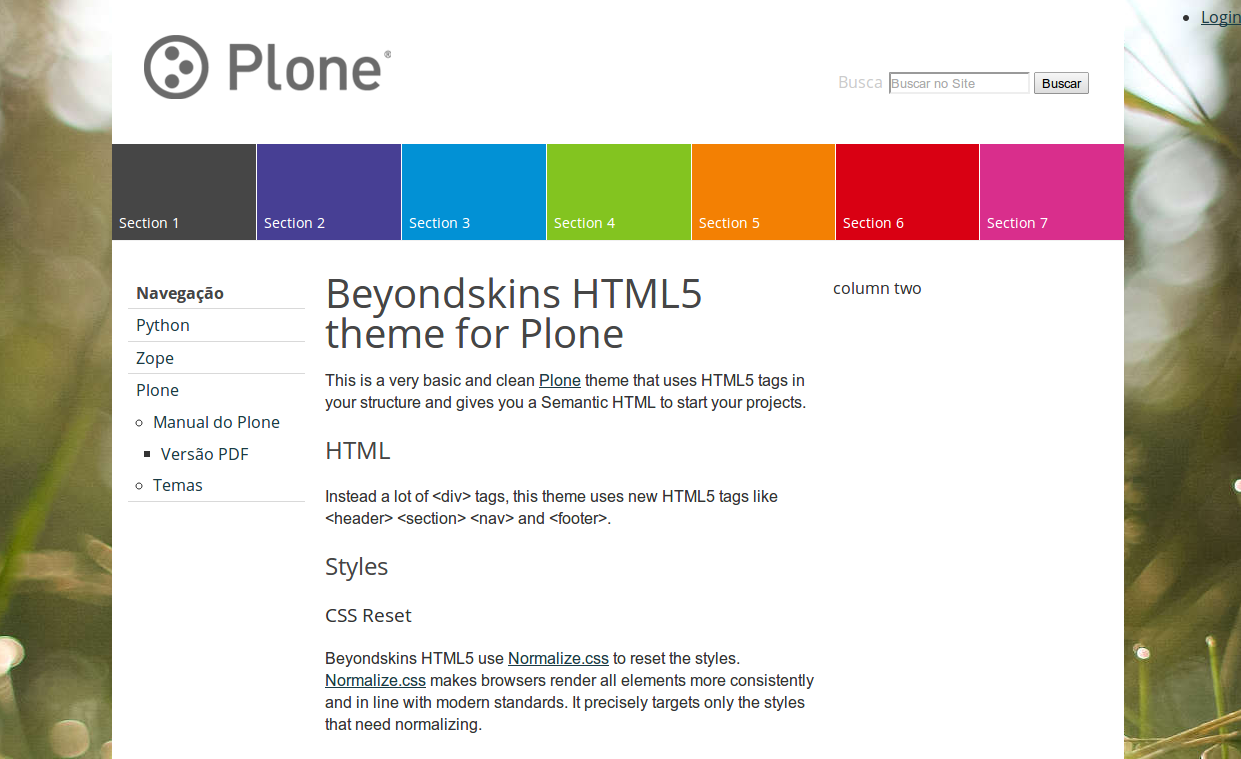
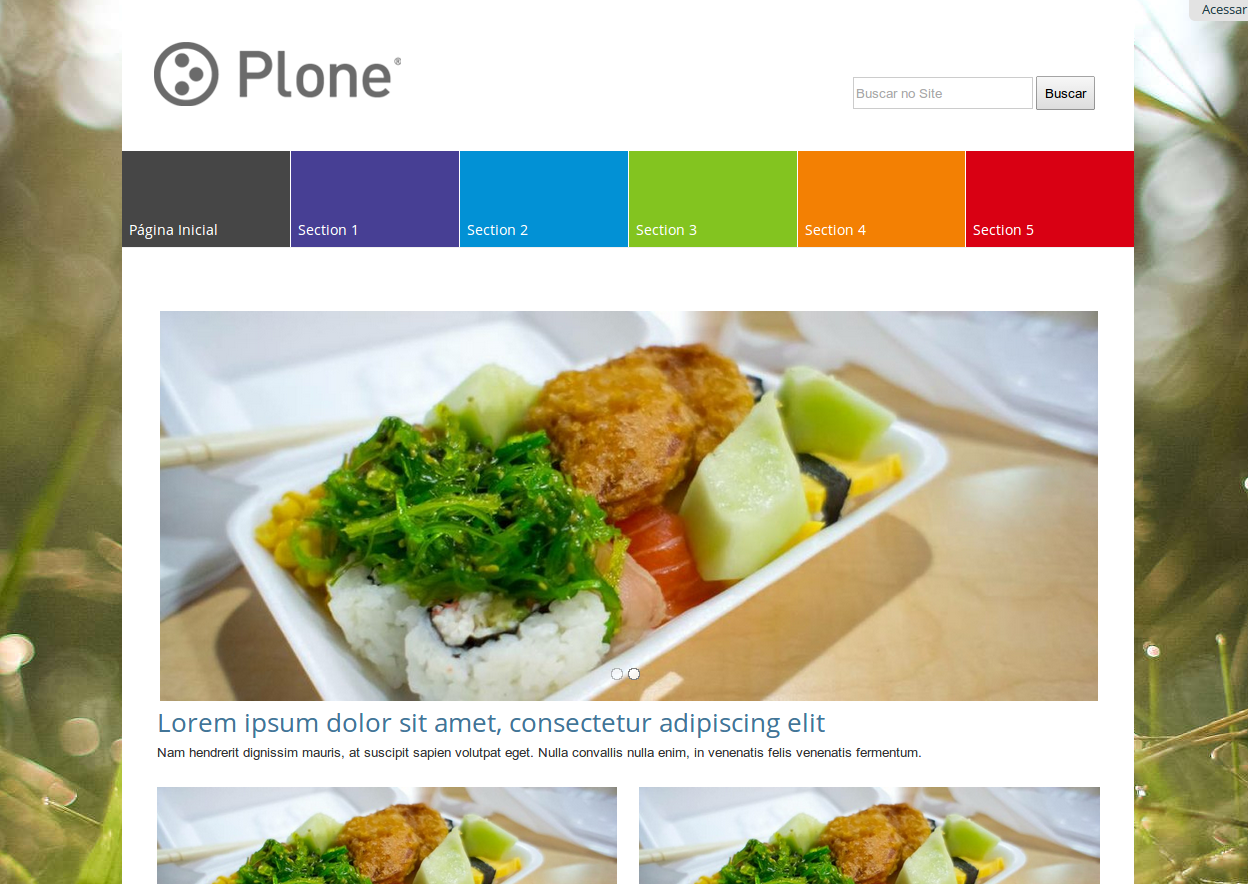
Styles for cover tiles

diff --git a/style.css b/style.css
@@ -86,6 +86,7 @@ a:visited,
 #content a:link,
 dl.portlet a:link {
   color: #1a3c45;
+  border-bottom: none;
 }
 .state-published {
   color: #1a3c45 !important;
@@ -135,7 +136,7 @@ header a:hover {
 #logo {
   width: 40%;
   float: left;
-  padding: 2em;
+  padding: 1.5em 2em;
 }
 #logo a {
   font-family: 'Open Sans', sans-serif;
@@ -154,8 +155,7 @@ header a:hover {
   width: 45%;
   float: right;
   text-align: right;
-  padding: 5em 2em 1em 0;
-  margin: 6em 2em 0 0;
+  padding: 5em 3em 1em 0;
 }
 #portal-searchbox input.searchField {
   border: 1px solid #ccc;
@@ -255,13 +255,15 @@ h6 {
 h1 {
   color: #464646;
   border: none;
-  margin-bottom: 0;
+  margin-bottom: 0.6em;
   margin-top: 0;
   font-size: 2.5em;
   line-height: 1em;
 }
 h2 {
   color: #464646;
+  line-height: 1.2em;
+  margin-bottom: 0.5em;
 }
 #content .documentDescription,
 #content #description {
@@ -270,6 +272,31 @@ h2 {
   margin-bottom: 1em;
 }
 /********** Tiles **********/
+.tile img {
+  max-width: 100%;
+  height: auto;
+}
+/* galeria */
+.cover-carousel-tile {
+  margin-bottom: 2em;
+}
+.galleria-stage {
+  top: 0;
+  left: 0;
+  right: 0;
+}
+.galleria-info-text {
+  padding: 0;
+}
+.galleria-info-title {
+  font: bold 2em/1.1 'Open Sans', sans-serif;
+  font-weight: normal;
+}
+.galleria-info-description {
+  font: normal 1em/1.4 arial, helvetica, sans-serif;
+  margin: 0;
+  color: #333333;
+}
 /*********** Portlets ***********/
 /* general styles */
 .portletHeader,
@@ -344,8 +371,9 @@ aside a {
 /********** Footer **********/
 footer {
   background: #ffffff;
-  padding: 2em;
+  padding: 2em 2em 0 2em;
   font-size: 80%;
+  border-top: 1px solid #ccc;
 }
 footer p {
   margin-bottom: 2em;

diff --git a/style.less b/style.less
@@ -100,6 +100,7 @@ a:visited,
 #content a:link, 
 dl.portlet a:link {
 	color:@main-link;
+	border-bottom: none;
 }
 .state-published {
   color:@main-link !important;
@@ -159,7 +160,7 @@ header a:hover {
 #logo {
 	width: 40%;
 	float: left;
-	padding: 2em;
+	padding: 1.5em 2em;
 }
 #logo a {
 	font-family: @title-font;
@@ -180,8 +181,7 @@ header a:hover {
 	width: 45%;
 	float: right;
 	text-align: right;
-	padding: 5em 2em 1em 0;
-	margin: 6em 2em 0 0;
+	padding: 5em 3em 1em 0;
 }
 #portal-searchbox input.searchField {
 	border: 1px solid #ccc;
@@ -268,13 +268,15 @@ h1, h2, h3, h4, h5, h6 {
 h1 {
     color: @title-color;
     border: none;
-    margin-bottom: 0;
+    margin-bottom: 0.6em;
     margin-top: 0;
     font-size: 2.5em;
     line-height: 1em;
 }
 h2 {
-    color: @title-color;    
+    color: @title-color;
+    line-height: 1.2em;
+	margin-bottom: 0.5em;
 }
 #content .documentDescription, #content #description {
     color: lighten(@main-text, 10%); 
@@ -283,7 +285,32 @@ h2 {
 }
 
 /********** Tiles **********/
+.tile img {
+	max-width: 100%;
+	height: auto;
+}
 
+/* galeria */
+.cover-carousel-tile {
+	margin-bottom: 2em;
+}
+.galleria-stage {
+	top: 0;
+	left: 0;
+	right: 0;
+}
+.galleria-info-text {
+	padding: 0;
+}
+.galleria-info-title {
+	font: bold 2em/1.1 @title-font;
+	font-weight: normal;
+}
+.galleria-info-description {
+	font: normal 1em/1.4 @text-font;
+	margin: 0;
+	color: @main-text;
+}
 
 /*********** Portlets ***********/
 
@@ -354,8 +381,9 @@ aside a {
 /********** Footer **********/
 footer {
 	background: @content-color;
-	padding: 2em;
+	padding: 2em 2em 0 2em;
     font-size: 80%;
+    border-top: 1px solid #ccc;
 }
 
 footer p {
